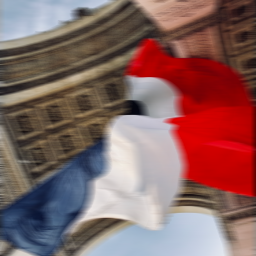
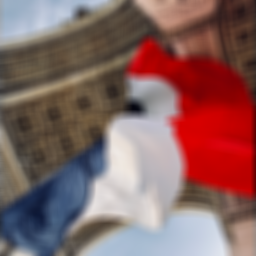
Enabled cols

diff --git a/Lab3/average.cpp b/Lab3/average.cpp
@@ -116,7 +116,7 @@ int main(int argc, char* argv[])
 		{
 			// your code here
 			conv_row(outputMatrix, inputMatrix, imageInfo.elementsPerPixel);
-			//conv_col(outputMatrix, outputMatrix);
+			conv_col(outputMatrix, outputMatrix);
 		});
 
 		WritePngFileMatrix(outputMatrix, outputFile + "-separable.png", colorType, imageInfo);
